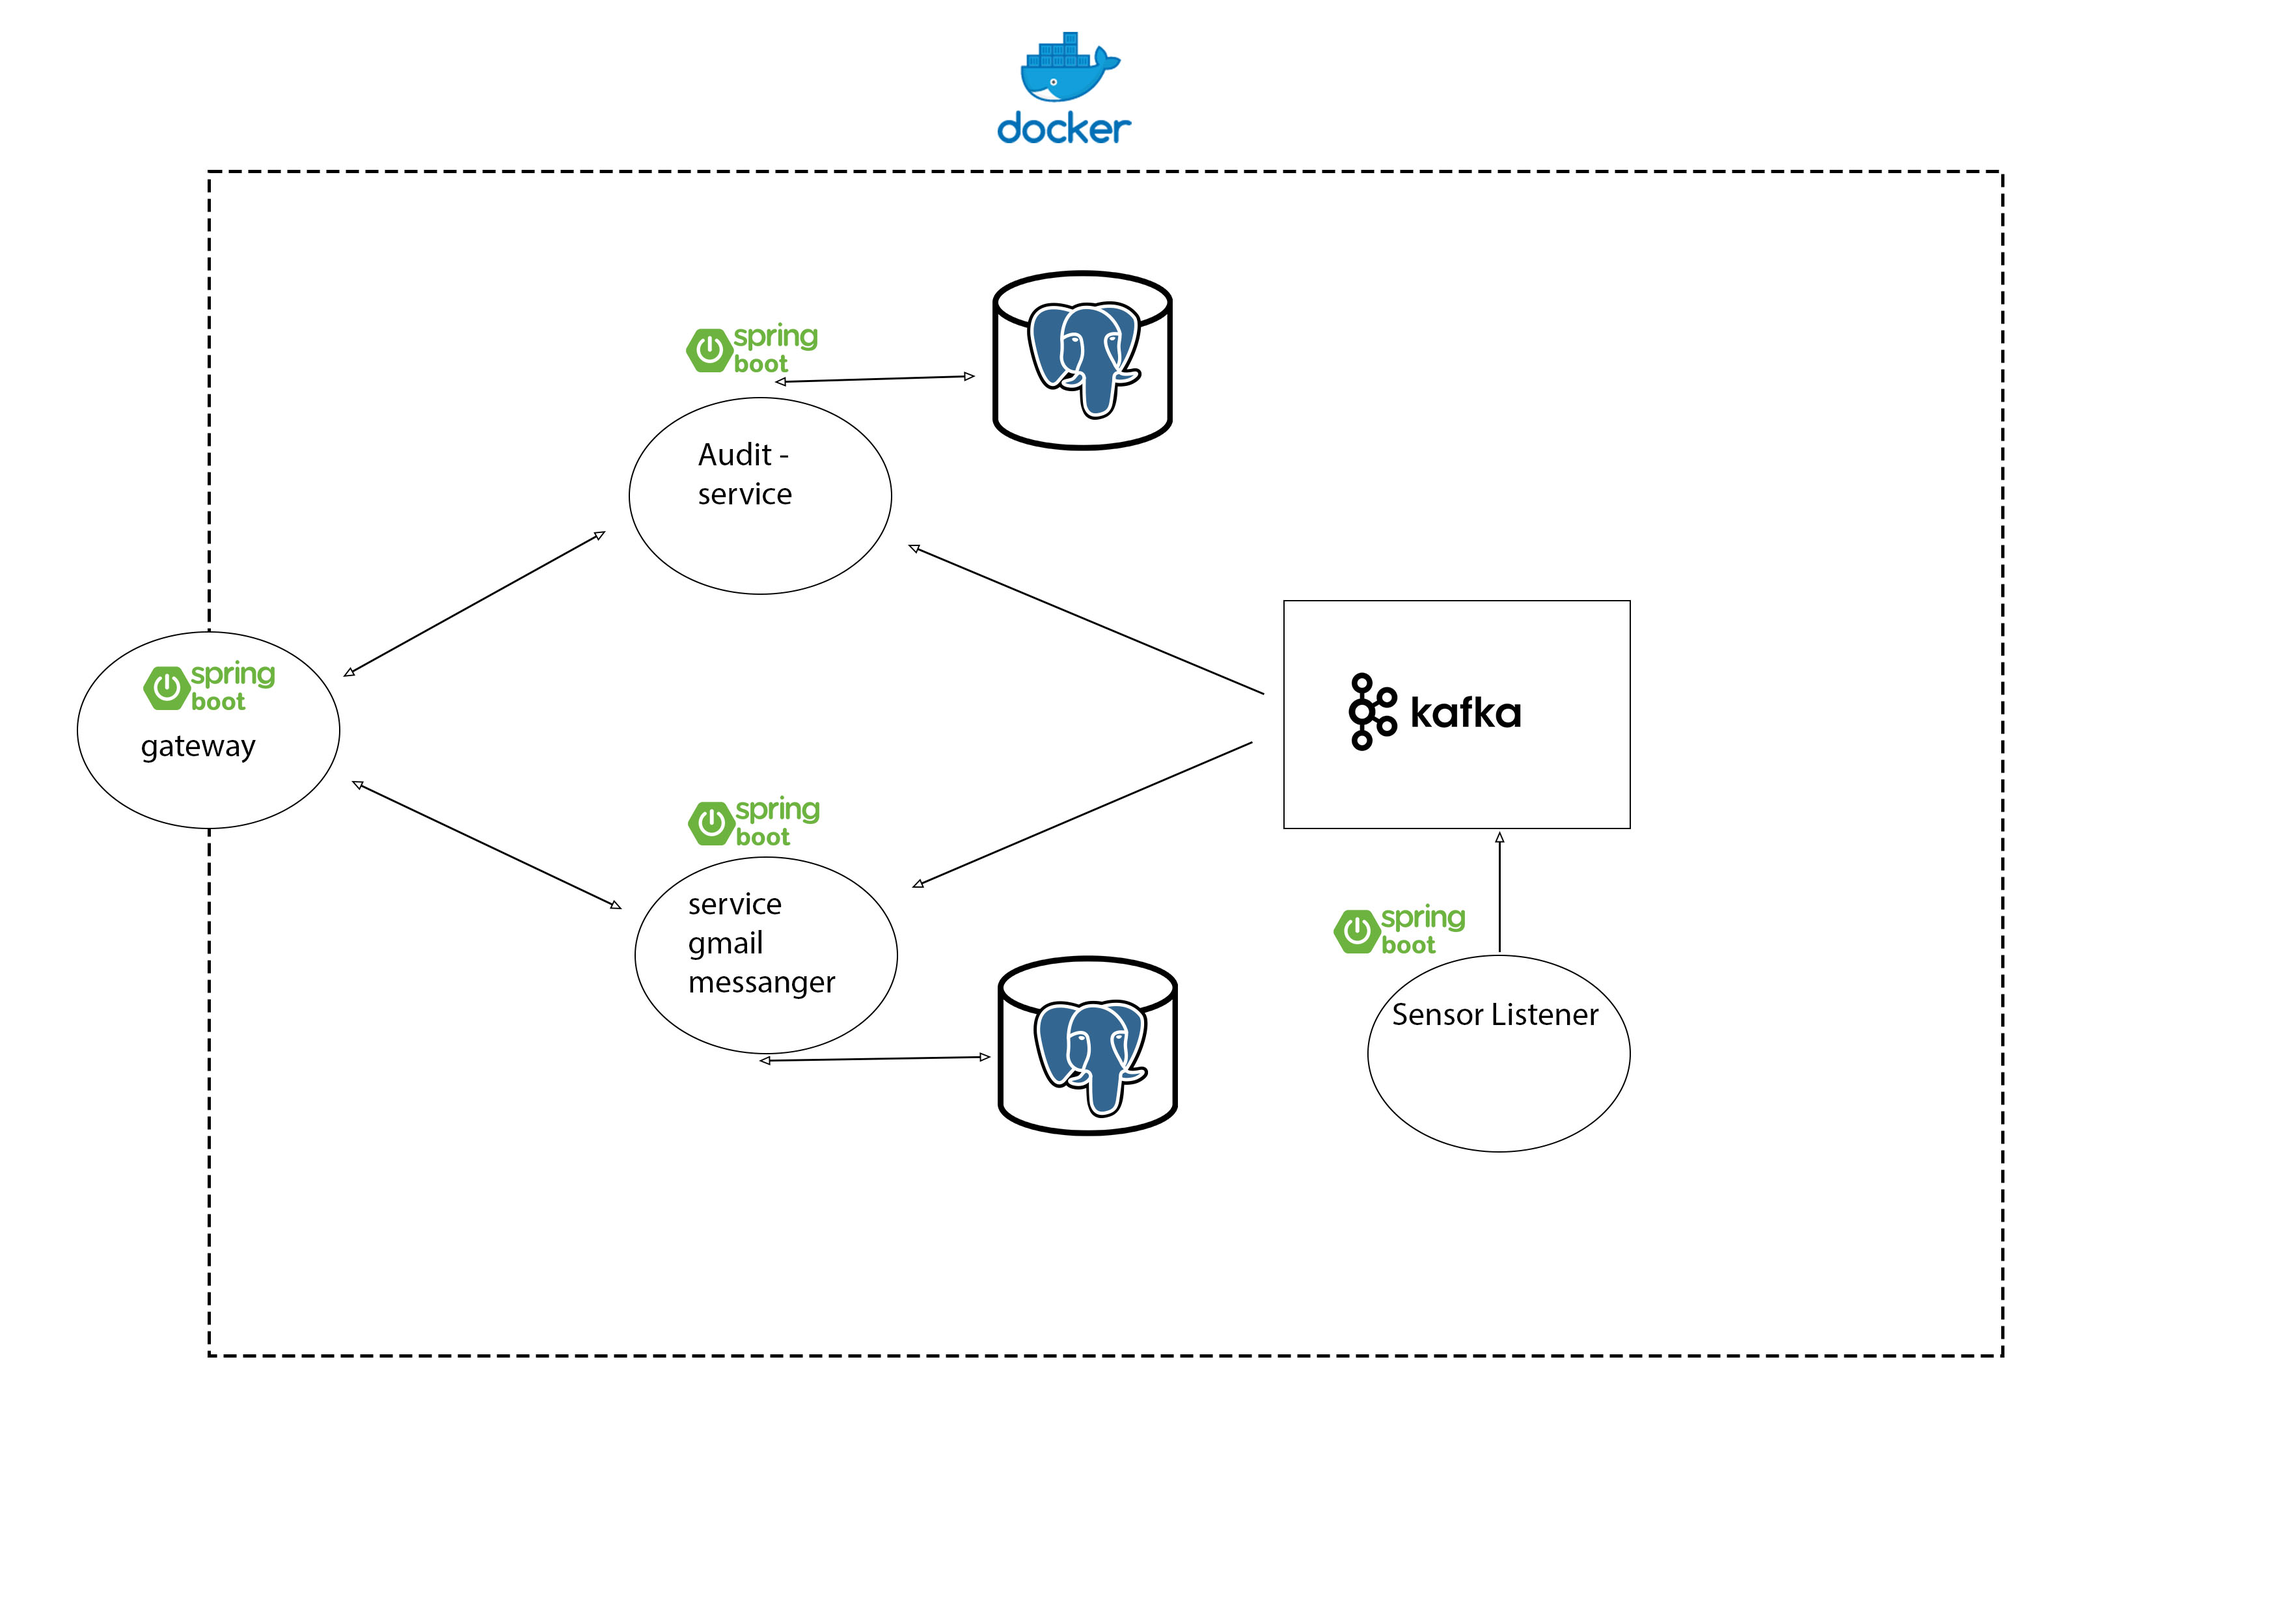
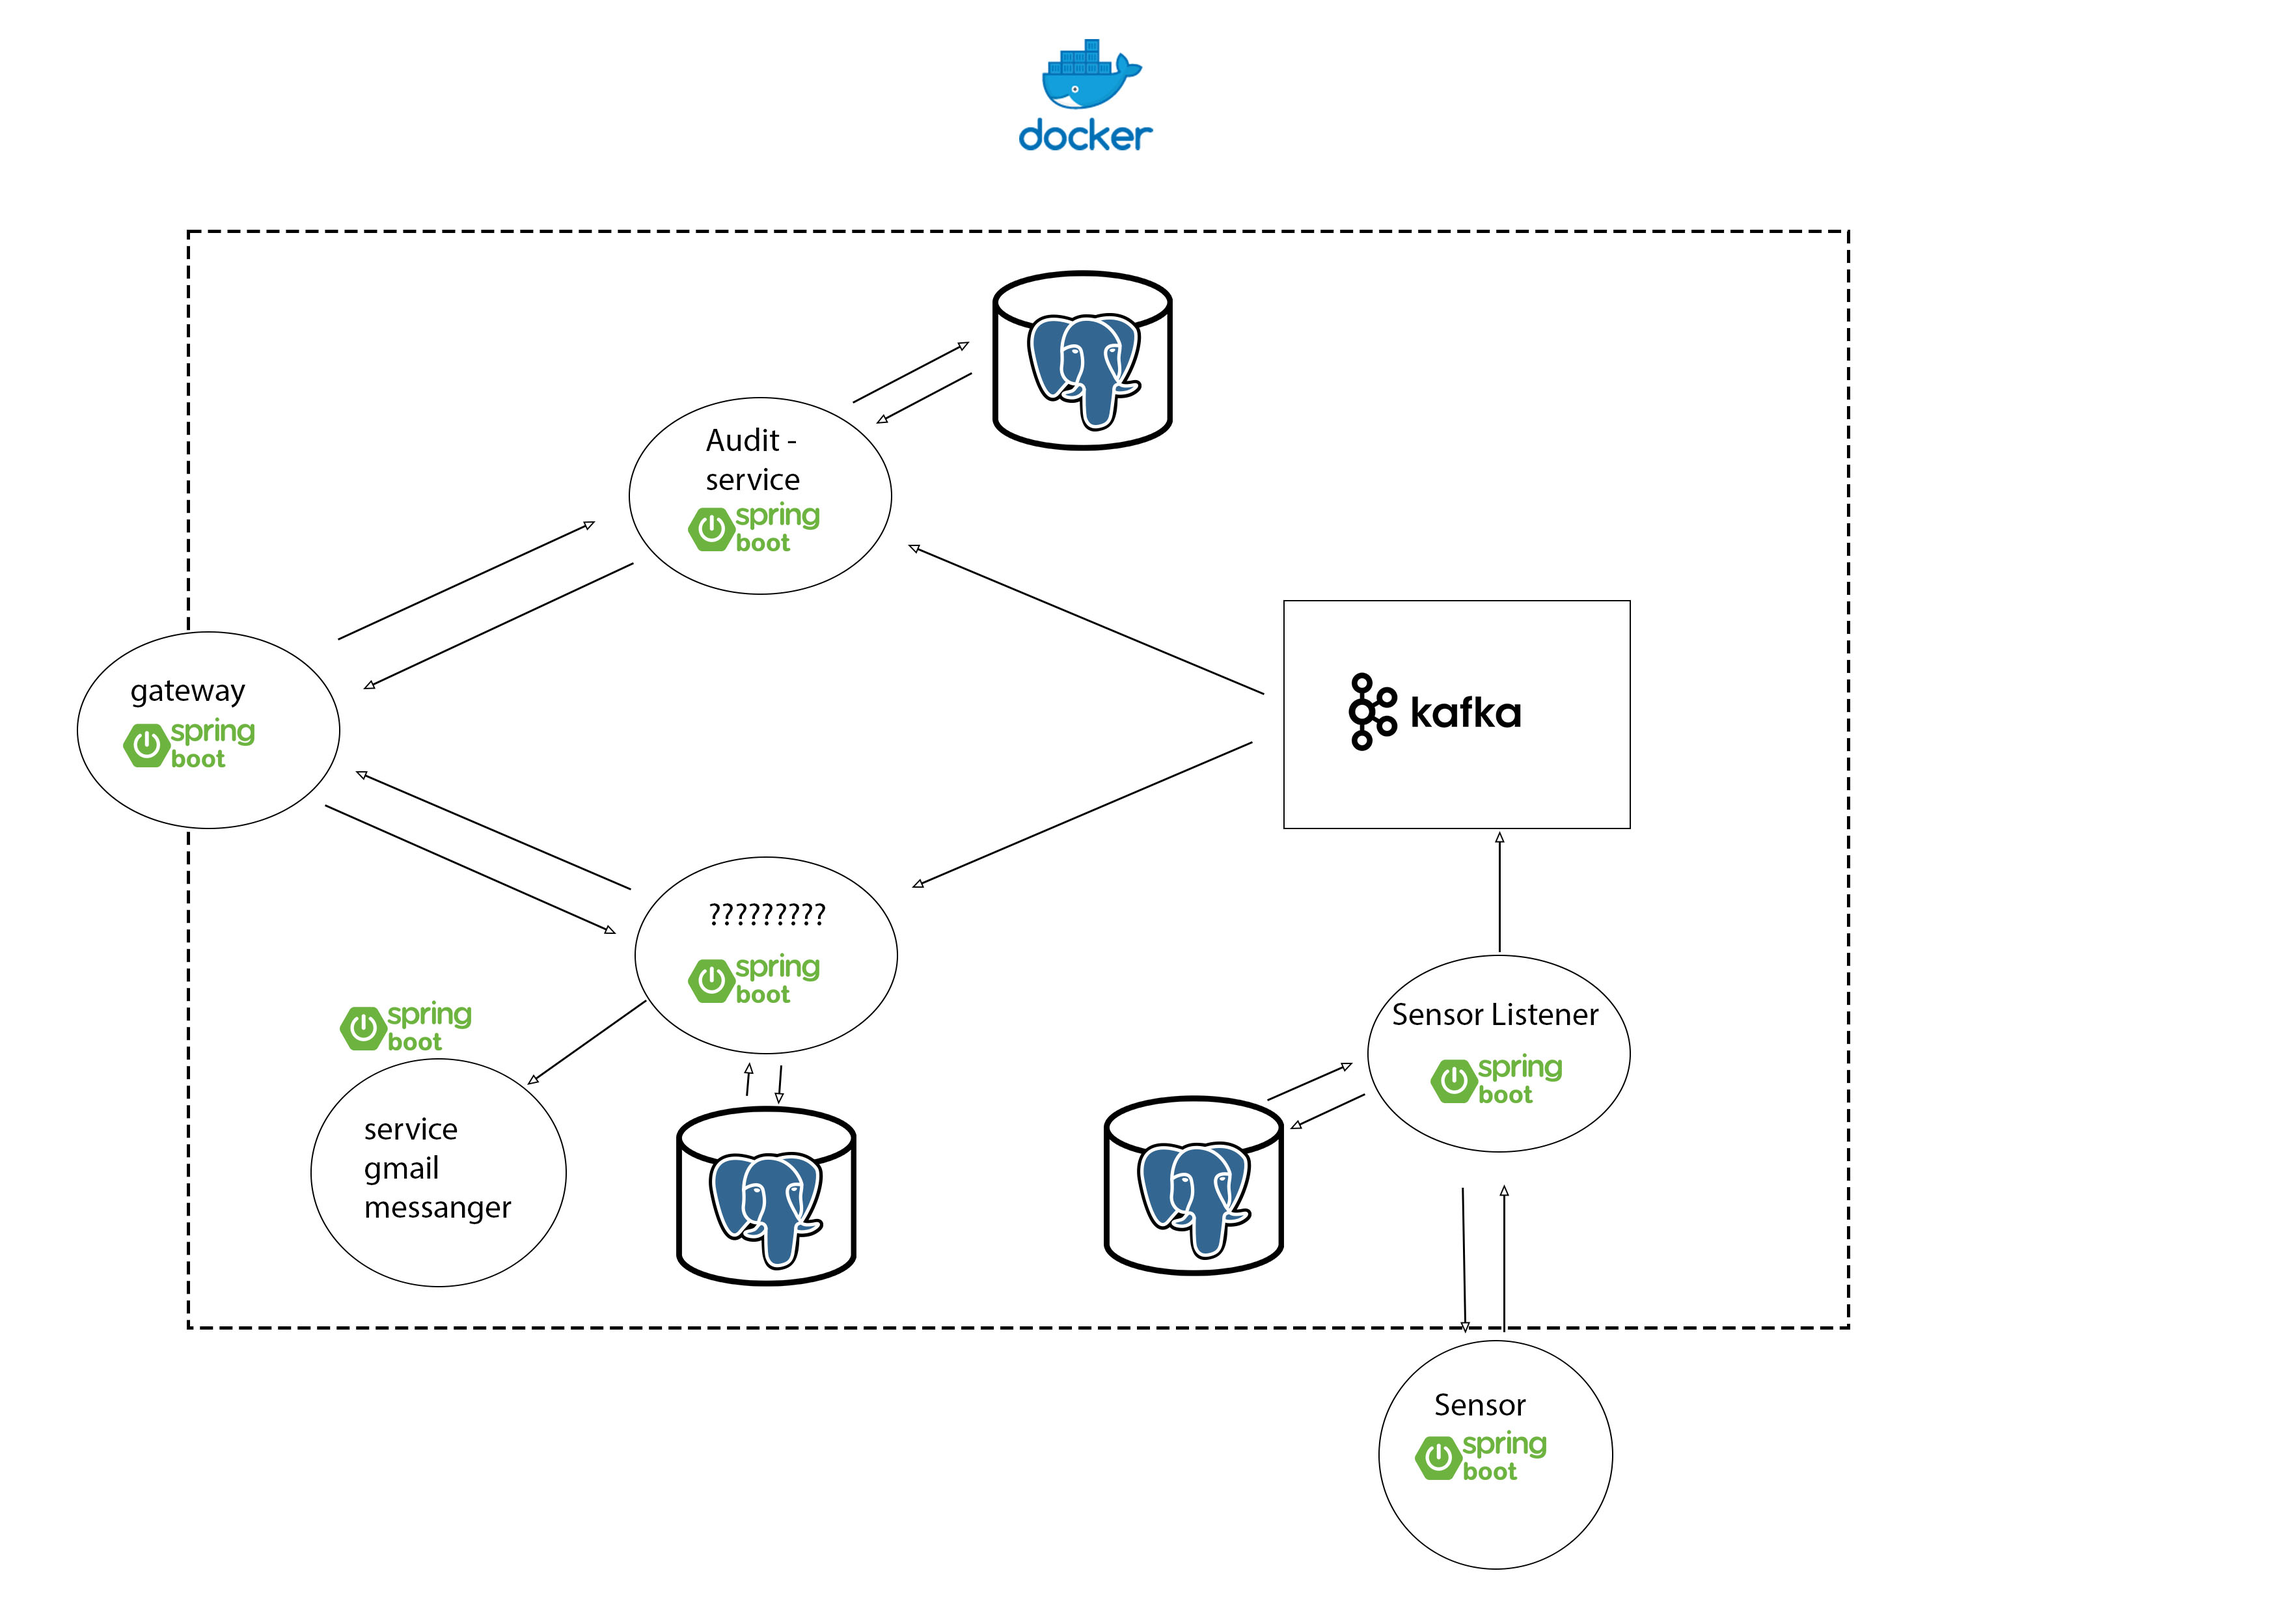
change image in readmy.md

diff --git a/README.md b/README.md
@@ -1,1 +1,20 @@
 # microservice
+
+<br/>
+<img src="/img/service-schema-v1.jpg">
+
+<h3>Description: </h2>
+<ol>
+<li>gateway</li>
+<li>audit - service</li>
+<li>???????</li>
+<li>service - messanger</li>
+<li>sensor - listener</li>
+<li>sensor</li>
+</ol>
+
+
+<h3>gateway:</h3>
+<div>
+<p></p>
+</div>
